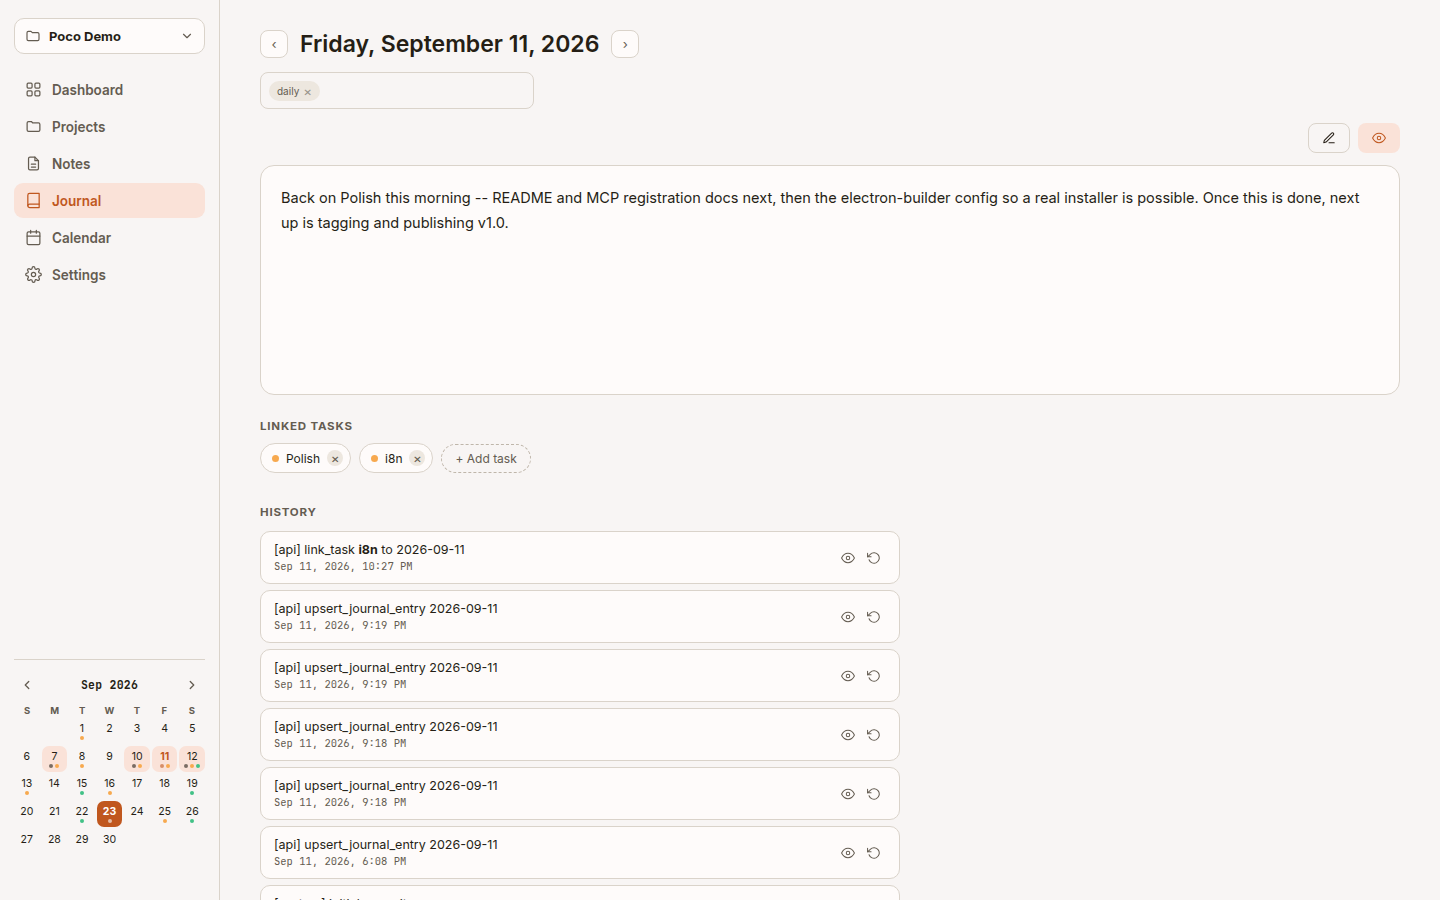
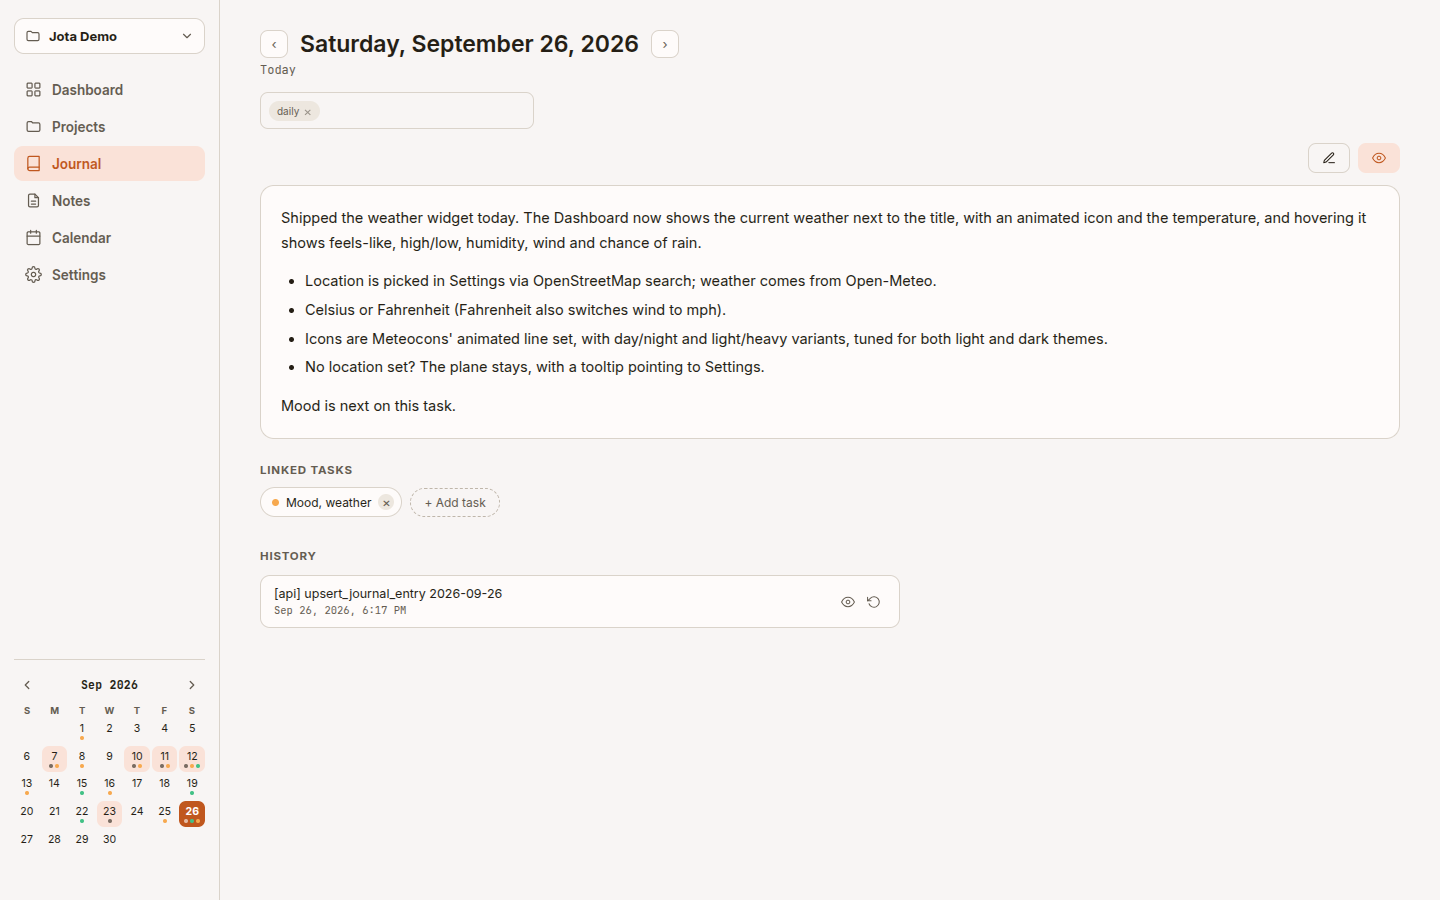
Update README screenshots and layout
Retake the screenshots with the weather widget and the renamed Jota
Development demo project. Move the Journal/Calendar row above Notes,
drop the note preview screenshot, and add the dark theme screenshot
below Calendar.

diff --git a/README.md b/README.md
@@ -19,13 +19,13 @@ server so AI agents like Claude can work with your tasks too.
 | -------------------------------------------- | ------------------------------------------------------------ |
 | ![Dashboard](docs/screenshots/dashboard.png) | ![Project kanban board](docs/screenshots/project-kanban.png) |
 
-| Notes                                                             | Note (rendered preview)                                               |
-| ----------------------------------------------------------------- | --------------------------------------------------------------------- |
-| ![Notes list with tag filtering](docs/screenshots/notes-list.png) | ![A note rendered in Preview mode](docs/screenshots/notes-detail.png) |
-
 | Journal entry                                                                    | Calendar                                             |
 | -------------------------------------------------------------------------------- | ---------------------------------------------------- |
 | ![Journal entry with linked tasks and git history](docs/screenshots/journal.png) | ![Full-page calendar](docs/screenshots/calendar.png) |
+
+| Notes                                                             | Dark theme                                                  |
+| ----------------------------------------------------------------- | ----------------------------------------------------------- |
+| ![Notes list with tag filtering](docs/screenshots/notes-list.png) | ![Dashboard in dark theme](docs/screenshots/dark-theme.png) |
 
 ## Download
 
